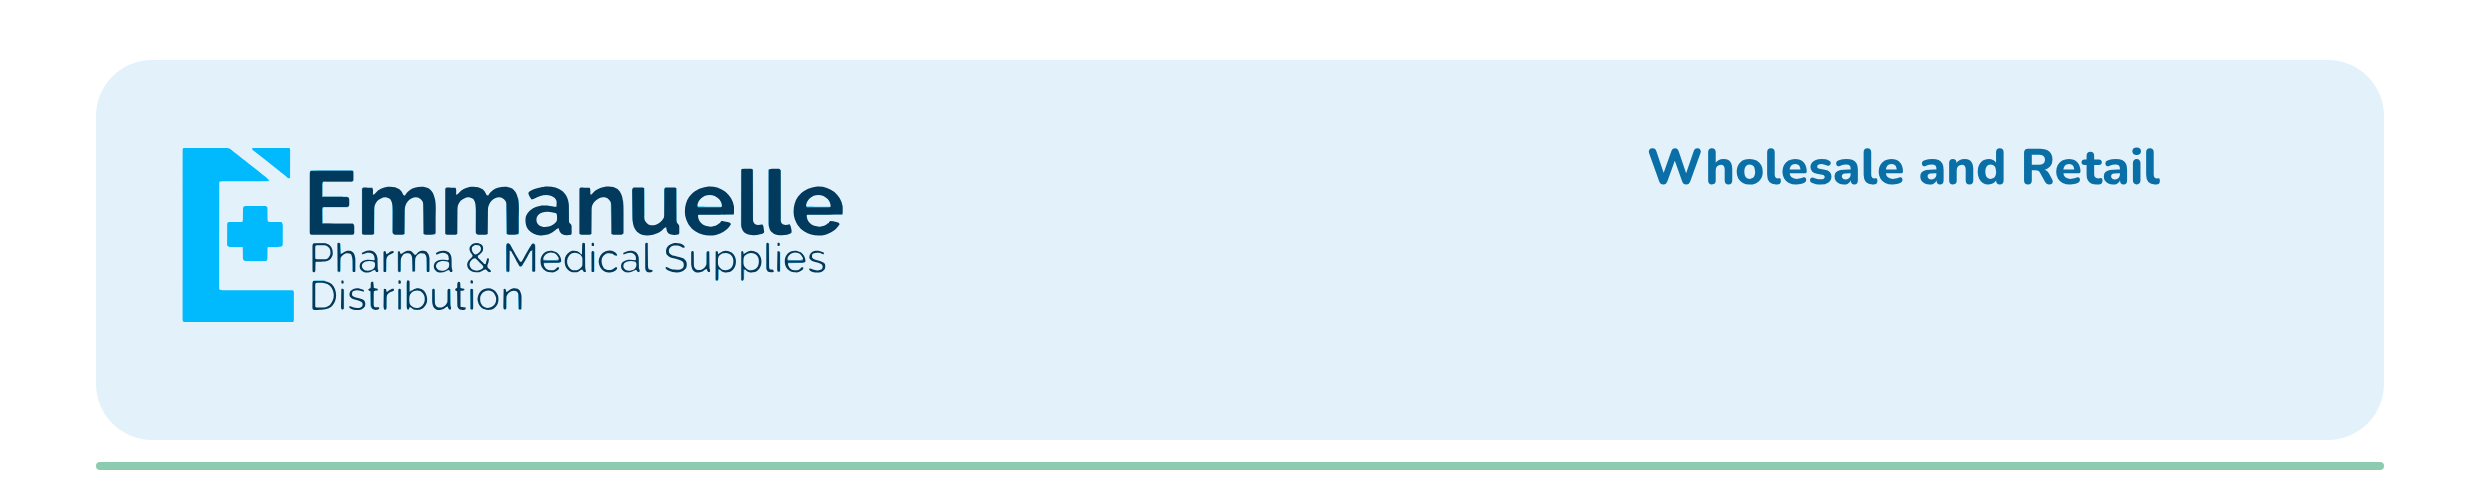
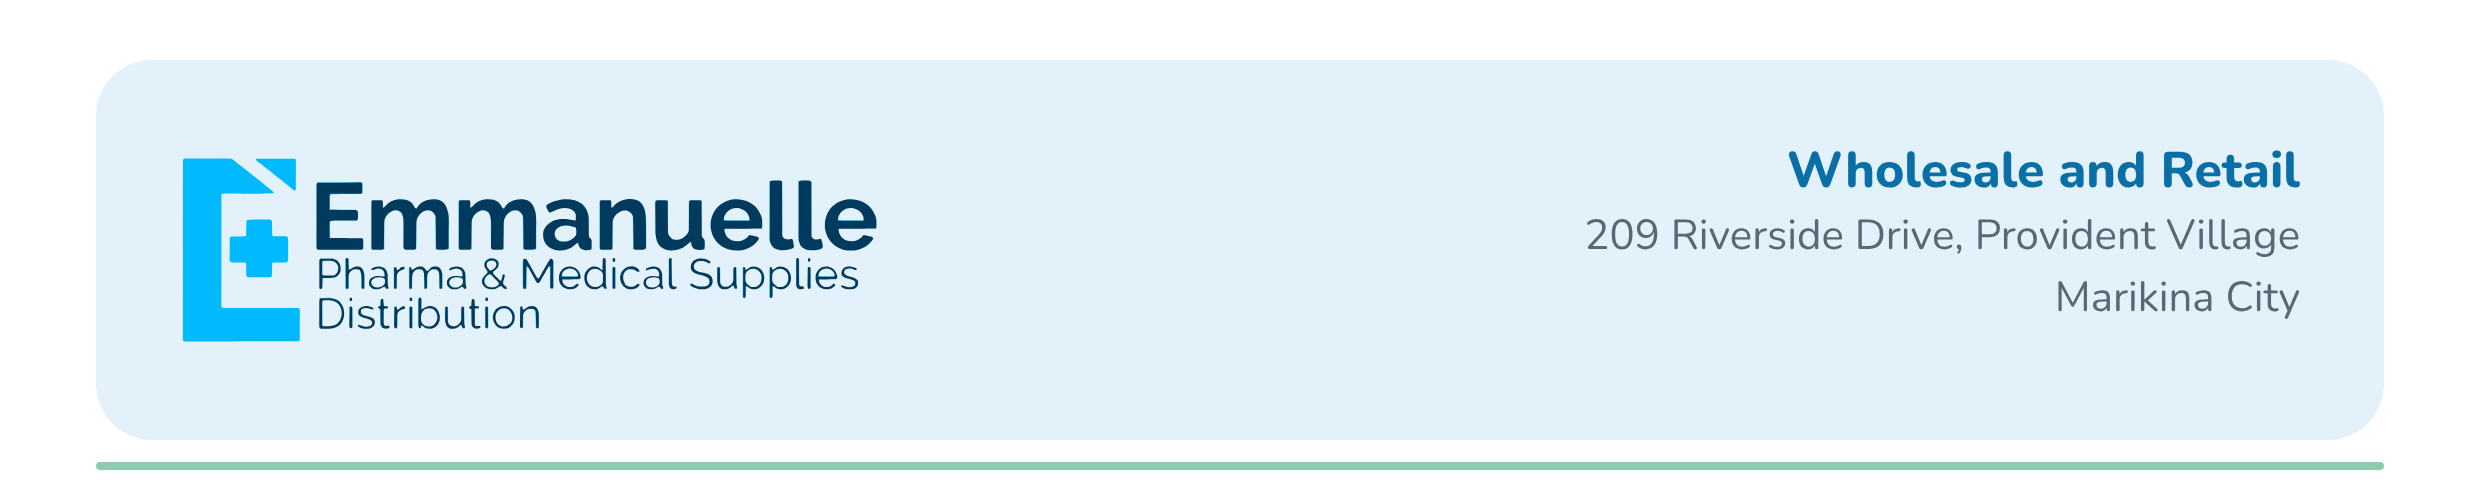
Restore government templates (MedSource World, Emmanuelle) to their previous versions
Claude-Session: https://claude.ai/code/session_01DnZsnBvbvTj4gLjw8LDG9Z

diff --git a/medsource/print/2026-10-legal-letterhead-template/source.html b/medsource/print/2026-10-legal-letterhead-template/source.html
@@ -4,9 +4,9 @@
 <meta charset="utf-8">
 <title>MedSource World letterhead</title>
 <style>
-@font-face{font-family:"Poppins";font-weight:400;src:url("../../brand/fonts/poppins/Poppins-Regular.ttf")}
-@font-face{font-family:"Poppins";font-weight:500;src:url("../../brand/fonts/poppins/Poppins-Medium.ttf")}
-@font-face{font-family:"Poppins";font-weight:700;src:url("../../brand/fonts/poppins/Poppins-Bold.ttf")}
+@font-face{font-family:"Poppins";font-weight:400;src:url("assets/Poppins-Regular.ttf")}
+@font-face{font-family:"Poppins";font-weight:500;src:url("assets/Poppins-Medium.ttf")}
+@font-face{font-family:"Poppins";font-weight:700;src:url("assets/Poppins-Bold.ttf")}
 :root{--forest:#445C44;--green:#7AB537;--navy:#033F75;--slate:#5A6470;--white:#FFFFFF}
 *{box-sizing:border-box;margin:0;padding:0}
 body{background:#888;font-family:"Poppins",sans-serif;display:flex;flex-direction:column;gap:40px;padding:40px;width:2560px}
@@ -38,12 +38,16 @@ body{background:#888;font-family:"Poppins",sans-serif;display:flex;flex-directio
 </head>
 <body>
 
-<div class="piece" id="h1"><!-- spec: letterhead-first-page-spec.jpg; original approved look; zone A (177-1240, 360-430) and zone B (1300-2160, 215-430) stay blank; logo ends above y 350 -->
+<div class="piece" id="h1">
   <div class="band" style="top:0;height:40px;background:var(--forest)"></div>
   <div class="band" style="top:40px;height:6px;background:var(--green)"></div>
-  <img style="position:absolute;left:177px;top:128px;height:176px" src="../../brand/logos/medsource-world/medsource-world.svg" alt="MedSource World">
-  <div style="position:absolute;right:320px;top:130px;height:75px;display:flex;align-items:center;font-weight:400;font-size:36px;letter-spacing:.04em;color:var(--forest);white-space:nowrap">Sourcing the Future of Healthcare</div>
-  <div style="position:absolute;left:2217px;top:130px;width:5px;height:176px;background:var(--green)"></div>
+  <img class="logo" src="assets/medsource-world.svg" alt="MedSource World">
+  <div class="tag">Sourcing the Future of Healthcare</div>
+  <div class="addr">
+    <div class="txt"><b>209 Riverside Drive</b><br>Provident Village<br>Marikina City, Philippines</div>
+    <div class="rule"></div>
+    <div class="pin"><svg width="34" height="34" viewBox="0 0 24 24"><path fill="#fff" d="M12 2a7 7 0 0 0-7 7c0 5.2 7 13 7 13s7-7.8 7-13a7 7 0 0 0-7-7zm0 9.5A2.5 2.5 0 1 1 12 6.5a2.5 2.5 0 0 1 0 5z"/></svg></div>
+  </div>
   <div class="band" style="top:442px;height:6px;background:var(--green)"></div>
   <div class="band" style="top:448px;height:20px;background:var(--navy)"></div>
 </div>
@@ -51,7 +55,7 @@ body{background:#888;font-family:"Poppins",sans-serif;display:flex;flex-directio
 <div class="piece" id="h2">
   <div class="band" style="top:0;height:30px;background:var(--forest)"></div>
   <div class="band" style="top:30px;height:5px;background:var(--green)"></div>
-  <img class="logo" src="../../brand/logos/medsource-world/medsource-world.svg" alt="MedSource World">
+  <img class="logo" src="assets/medsource-world.svg" alt="MedSource World">
   <div class="tag">Sourcing the Future of Healthcare</div>
   <div class="band" style="top:296px;height:5px;background:var(--green)"></div>
   <div class="band" style="top:301px;height:14px;background:var(--navy)"></div>

diff --git a/emmanuelle-pharma/print/2026-10-letterhead-government/source.html b/emmanuelle-pharma/print/2026-10-letterhead-government/source.html
@@ -10,10 +10,11 @@ body{background:#888;font-family:"Nunito",sans-serif;display:flex;flex-direction
 #h1{height:500px}#h2{height:250px}#f{height:250px}
 .r{position:absolute;right:180px;text-align:right}
 </style></head><body>
-<div class="piece" id="h1"><!-- spec: letterhead-first-page-spec.jpg; original approved rounded panel look; zone A (177-1240, 360-430) and zone B (1300-2160, 215-430) stay blank; logo ends above y 350 -->
+<div class="piece" id="h1">
   <div class="abs" style="left:96px;top:60px;width:2288px;height:380px;border-radius:56px;background:var(--mist)"></div>
-  <img class="abs" style="left:177px;top:135px;height:200px" src="../../brand/logos/emmanuelle-landscape-navy.svg" alt="Emmanuelle Pharma and Medical Supplies Distribution">
-  <div class="abs" style="right:320px;top:130px;height:75px;display:flex;align-items:center;font-weight:800;font-size:50px;color:var(--deep);white-space:nowrap">Wholesale and Retail</div>
+  <img class="abs" style="left:177px;top:145px;height:210px" src="../../brand/logos/emmanuelle-landscape-navy.svg" alt="Emmanuelle Pharma and Medical Supplies Distribution">
+  <div class="r" style="top:140px;font-size:42px;line-height:62px;color:var(--muted)"><b style="font-weight:800;color:var(--deep);font-size:50px">Wholesale and Retail</b><br>209 Riverside Drive, Provident Village<br>Marikina City</div>
+
   <div class="abs" style="left:96px;top:462px;width:2288px;height:8px;border-radius:4px;background:var(--sage)"></div>
 </div>
 <div class="piece" id="h2">

diff --git a/medsource/README.md b/medsource/README.md
@@ -20,7 +20,7 @@ Every MedSource publication in one place: social posts, signage and print, plus 
 | --- | --- | --- | --- | --- |
 | Oct 10, 2026 | [DSWD Tarpaulin 2 x 5 ft](print/2026-10-dswd-tarpaulin/print.md) | Sta. Lucia Mall | Draft | <img src="print/2026-10-dswd-tarpaulin/mockups/preview-1152x2880.png" width="60"> |
 | Oct 13, 2026 | [MedSource Digital Sales Letterhead Template](print/2026-10-medsource-letterhead-template/print.md) | Digital sales | Draft | <img src="print/2026-10-medsource-letterhead-template/medsource-digital-sales-letterhead-header-first-page-2480x500.png" width="120"> |
-| Oct 10, 2026 | [Legal Government Letterhead Template](print/2026-10-legal-letterhead-template/print.md) | MedSource World, Marikina City | Draft | <img src="print/2026-10-legal-letterhead-template/medsource-world-government-letterhead-header-first-page-2480x500.png" width="120"> |
+| Oct 10, 2026 | [Legal Government Letterhead Template](print/2026-10-legal-letterhead-template/print.md) | MedSource World, Marikina City | Draft | <img src="print/2026-10-legal-letterhead-template/header-first-page-2480x500.png" width="120"> |
 | Oct 2026 | [Warehouse Window Sticker](print/2026-10-warehouse-window-sticker/print.md) | Warehouse glass wall | Approved | <img src="print/2026-10-warehouse-window-sticker/mockups/style-b-street.png" width="120"> |
 
 ## Brand kit

diff --git a/medsource/print/2026-10-legal-letterhead-template/print.md b/medsource/print/2026-10-legal-letterhead-template/print.md
@@ -10,18 +10,16 @@
 
 Marked as the legal government letterhead template. Old letterhead used as basis only (logo with tagline, address with pin). Look follows the design system: straight forest and navy bands with brand-green stripes. Tagline: Sourcing the Future of Healthcare.
 
-First page header keeps the original approved look, with only the tagline (no address or contact, the system prints those), logo ending above y 350.
-
 ## Files
 
 | Piece | Size | File |
 | --- | --- | --- |
-| First page header (with address) | 2480 × 500 px | [PNG](medsource-world-government-letterhead-header-first-page-2480x500.png) |
+| First page header (with address) | 2480 × 500 px | [PNG](header-first-page-2480x500.png) |
 | Later pages header (no address, smaller) | 2480 × 500 px | [PNG](header-later-pages-2480x500.png) |
 | Footer | 2480 × 250 px | [PNG](footer-2480x250.png) |
 
 ## Preview
 
-<img src="medsource-world-government-letterhead-header-first-page-2480x500.png" width="640">
+<img src="header-first-page-2480x500.png" width="640">
 <img src="header-later-pages-2480x500.png" width="640">
 <img src="footer-2480x250.png" width="640">

diff --git a/emmanuelle-pharma/print/2026-10-letterhead-government/print.md b/emmanuelle-pharma/print/2026-10-letterhead-government/print.md
@@ -23,5 +23,3 @@ Government level letterhead for Emmanuelle Pharma & Medical Supplies Distributio
 <img src="emmanuelle-government-letterhead-header-first-page-2480x500.png" width="640">
 <img src="emmanuelle-government-letterhead-header-later-pages-2480x250.png" width="640">
 <img src="emmanuelle-government-letterhead-footer-2480x250.png" width="640">
-
-First page header keeps the original approved rounded mist panel look, with only the Wholesale and Retail tagline (no address or contact, the system prints those).
